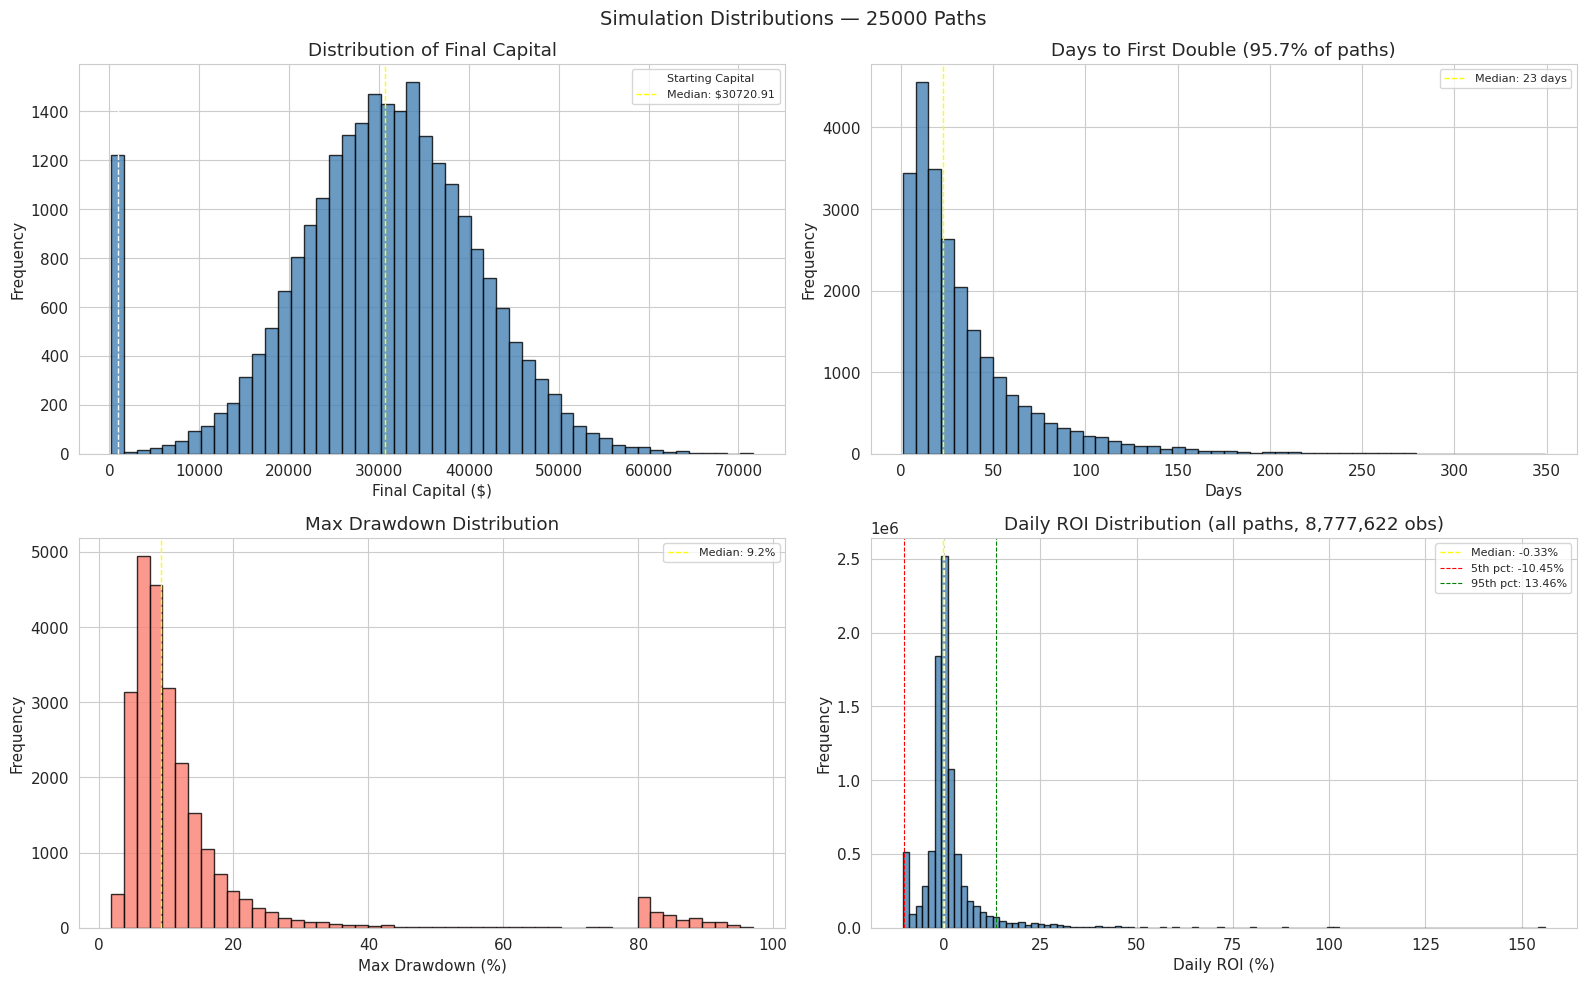
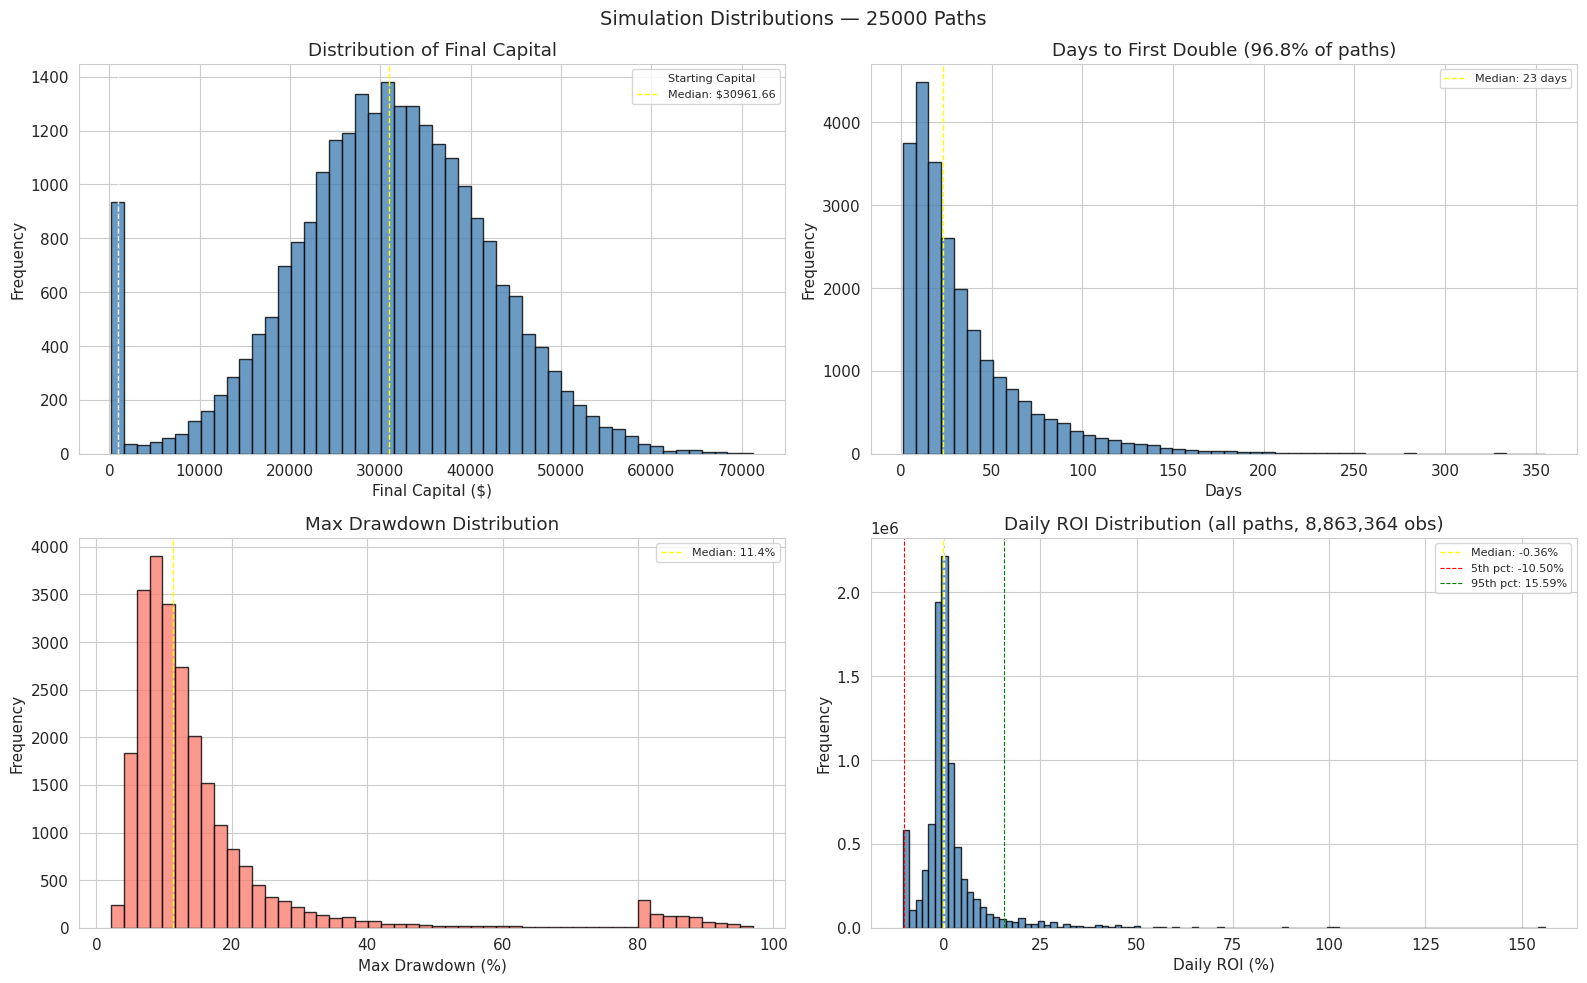
Update backtest data, bug fix

diff --git a/README.md b/README.md
@@ -27,14 +27,14 @@ The strategy has been deployed in its current state since 2026-02-22 (earlier ve
 
 | Metric | Value |
 |--------|-------|
-| Trades | 923 |
-| Total Return | 38% |
-| Daily Sharpe (ann.) | 3.16 |
-| Max Drawdown | 8.1% |
-| Win Rate | 33.9% |
-| W/L Ratio | 3.01 |
-| Profit Factor | 1.54 |
-| Calmar Ratio | 10.28 |
+| Trades | 1179 |
+| Total Return | 34% |
+| Daily Sharpe (ann.) | 3.1 |
+| Max Drawdown | 6.8% |
+| Win Rate | 30.6% |
+| W/L Ratio | 3.3 |
+| Profit Factor | 1.46 |
+| Calmar Ratio | 12.09 |
 
 ### Equity Curve
 
@@ -42,7 +42,7 @@ The strategy has been deployed in its current state since 2026-02-22 (earlier ve
 
 ### Model Calibration
 
-The model's predicted probabilities align closely with empirical outcomes across 15,187 out-of-sample markets. When the model assigns probability *p* to a bucket, it resolves YES approximately *p* of the time, across all probability bins.
+The model's predicted probabilities align closely with empirical outcomes across 16,681 out-of-sample markets. When the model assigns probability *p* to a bucket, it resolves YES approximately *p* of the time, across all probability bins.
 
 ![Model Calibration](results/plots/calibration.png)
 
@@ -52,28 +52,29 @@ Every naive and baseline strategy yields negative returns over the same period. 
 
 | Strategy | Trades | Win% | Total P&L | Sharpe | Max DD |
 |----------|--------|------|-----------|--------|--------|
-| **This Strategy** | 923 | 33.9% | $350.57 | 3.16 | $-29.99 |
-| Best Baseline | 2,549 | 47.6% | $125.17 | 1.37 | $-68.39 |
-| Naive Forecast | 2,504 | 26.0% | $-772.24 | -6.49 | $-795.15 |
-| Random | 4,143 | 49.1% | $-889.97 | -6.13 | $-895.92 |
+| **This Strategy** | 1,179 | 30.6% | $396.1 | 3.1 | $-28.83 |
+| Best Baseline | 2,963 | 47.9% | $191.2 | 1.8 | $-41.82 |
+| Naive Forecast | 2,901 | 26.1% | $-865.1 | -6.76 | $-890.17 |
+| Random | 4,154 | 49.8% | $-875.22 | -6.2 | $-909.06 |
 
 ![Benchmark Comparison](results/plots/benchmark_comparison.png)
 
 ### Parameter Robustness
 
-A sweep of **66 parameter configurations** shows that **all are profitable**, with annualized Sharpe ratios ranging from 1.84 to 3.26. The chosen parameters rank #1 by composite score but sit in the center of the profitable region rather than on a boundary.
+A sweep of **66 parameter configurations** shows that **all are profitable**, with annualized Sharpe ratios ranging from 1.84 to 3.08. The chosen parameters rank #1 by composite score but sit in the center of the profitable region rather than on a boundary.
 
 ![Parameter Sensitivity](results/plots/parameter_sensitivity.png)
 
 ### Monte Carlo Simulation
 
-25,000 forward paths simulated with conservative assumptions including win degradation (simulating edge decay and/or model degradation), daily exposure caps, and stop-loss triggers.
+25,000 forward paths simulated with conservative assumptions including win degradation (5% flip probability, simulating edge decay and/or model degradation), daily exposure caps, and stop-loss triggers.
 
 | Metric | Value |
 |--------|-------|
-| Median Sharpe (ann.) | 2.26 |
-| Profitable Paths | 95.1% |
-| Median Max Drawdown | 14.3% |
+| Median Sharpe (ann.) | 2.7 |
+| Profitable Paths | 96.3% |
+| Mean Max Drawdown | 16.1% |
+| Stop Loss Hit | 3.7% |
 
 ![Monte Carlo Simulation](results/plots/monte_carlo_equity.png)
 
